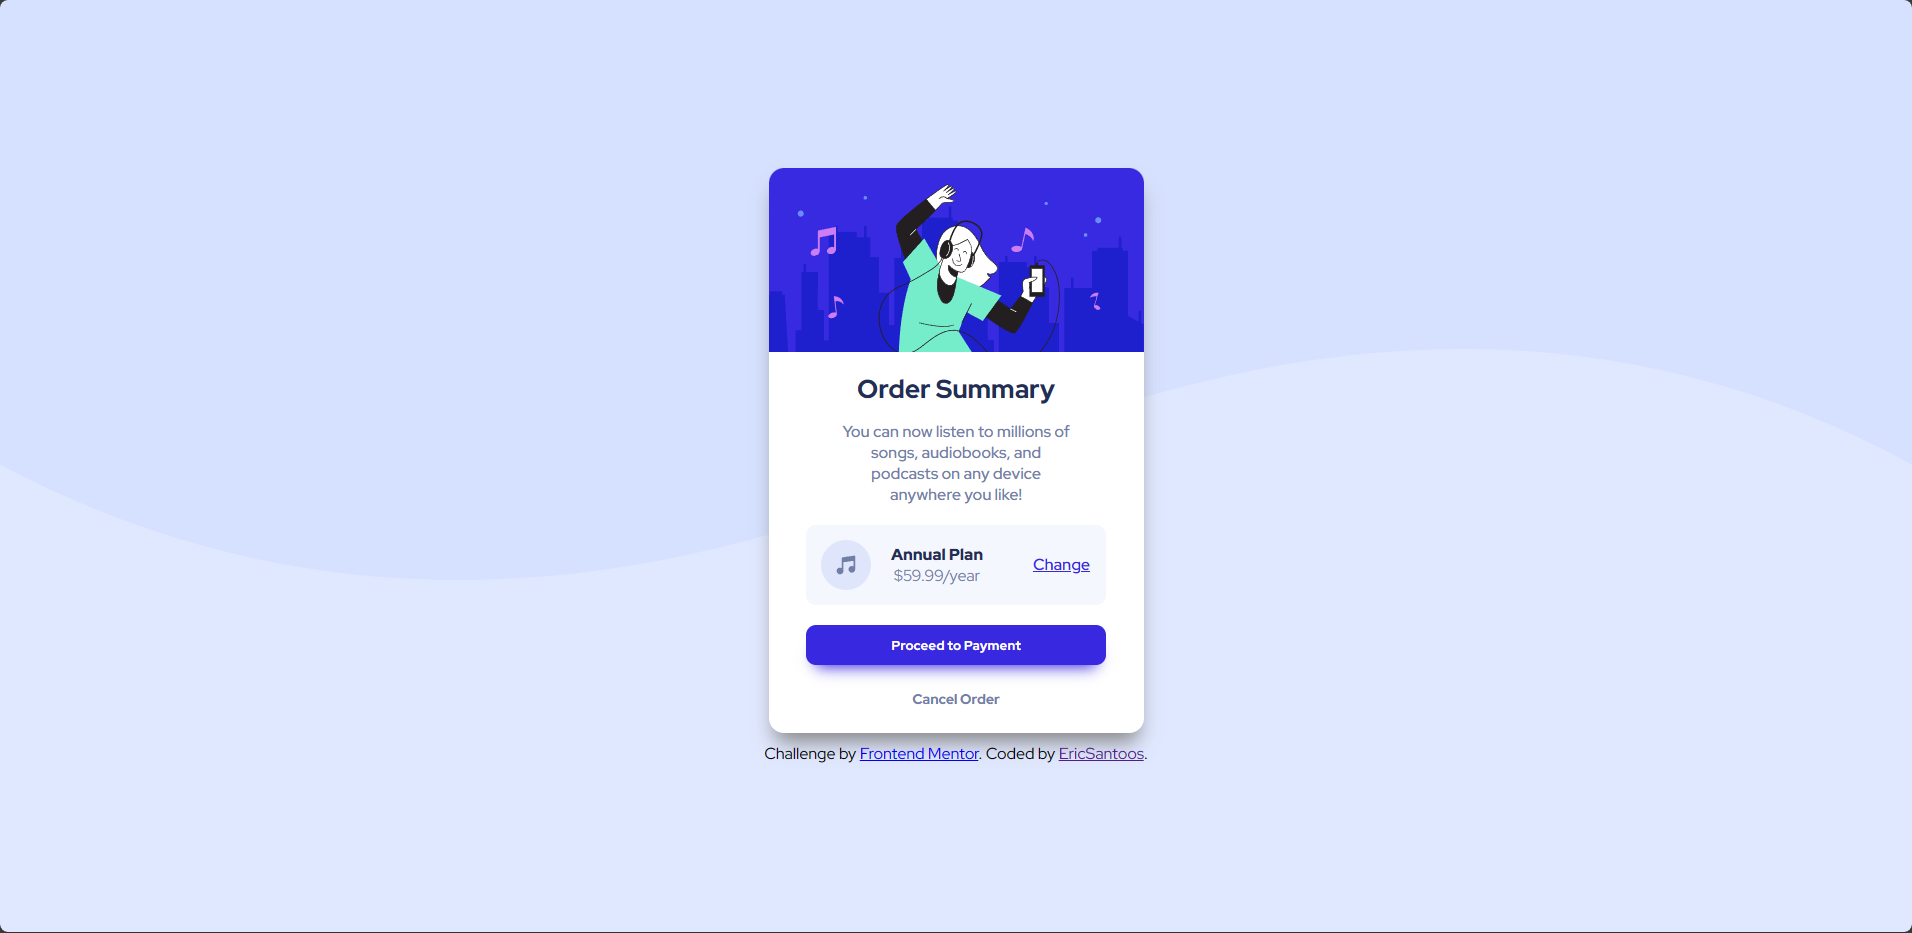
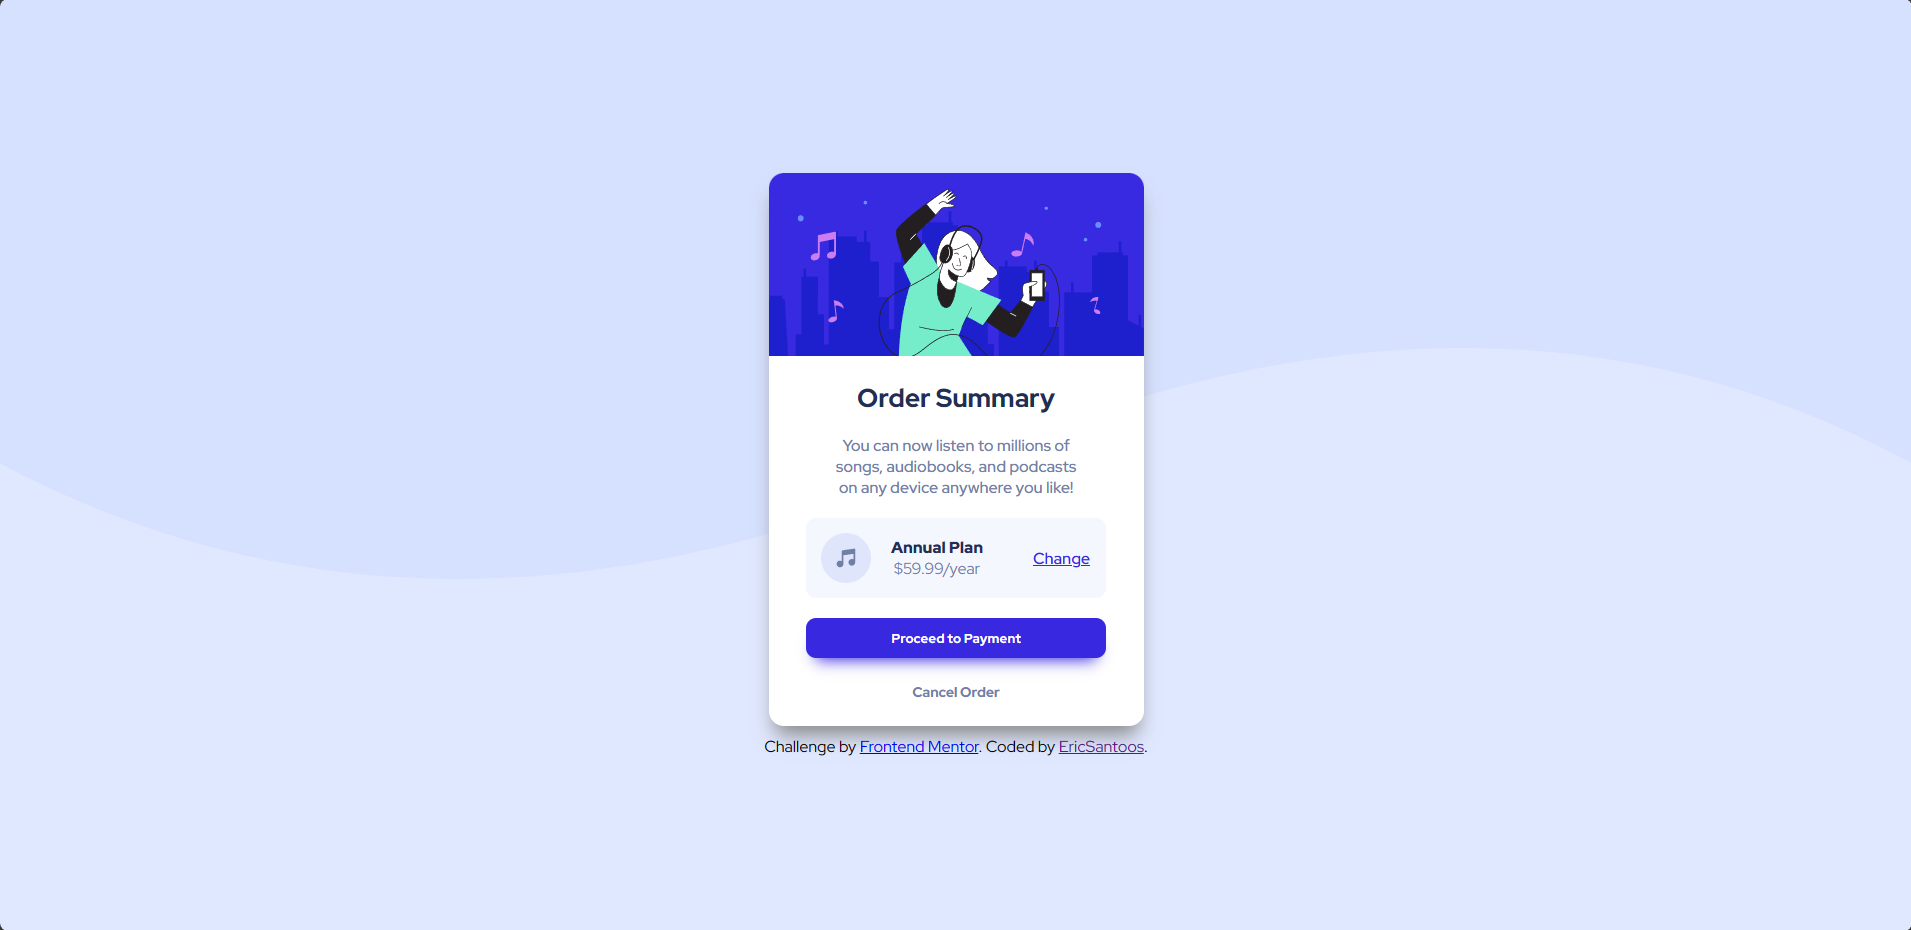
Edit Readme

Changed region(s): [[0.4014, 0.1559, 0.5866, 0.6237], [0.0, 0.9978, 1.0, 1.0], [0.4014, 0.6548, 0.6175, 0.8419]]

diff --git a/style.css b/style.css
@@ -51,7 +51,7 @@ body {
 
 .title-card {
   color: var(--Dark-blue);
-  padding: 15px;
+  padding: 20px;
   font-size: 13px;
 }
 
@@ -59,7 +59,7 @@ body {
   color: var(--Desaturated-blue);
   text-align: center;
   flex-wrap: wrap;
-  margin: 0 70px;
+  margin: 0 60px;
   font-weight: 500;
 }
 .plan-card {
